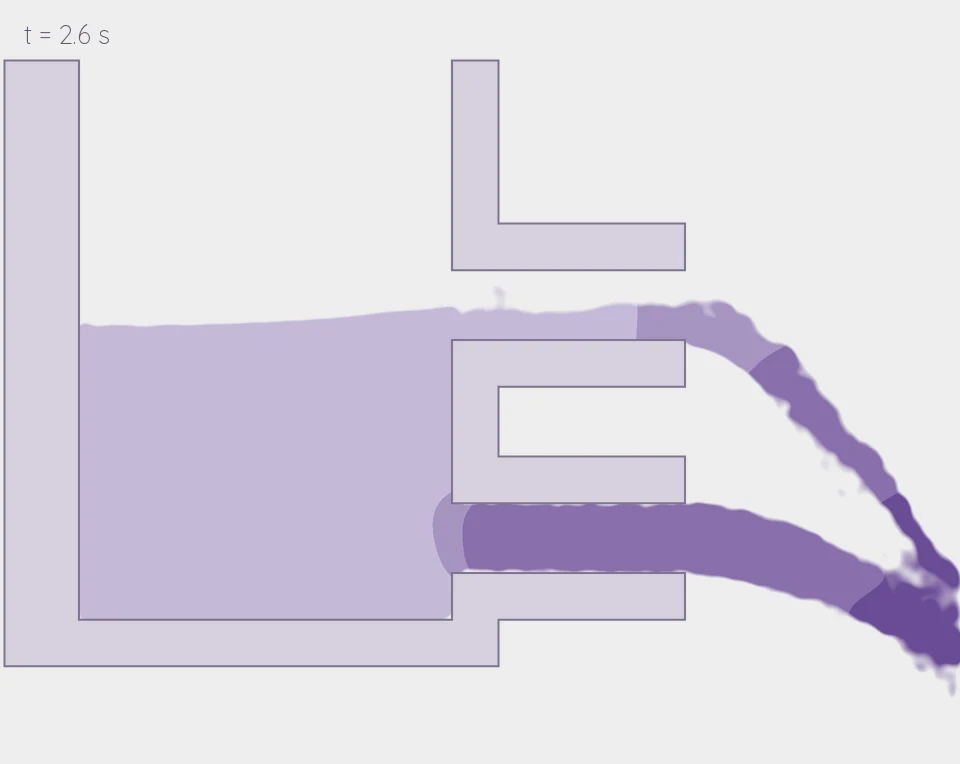
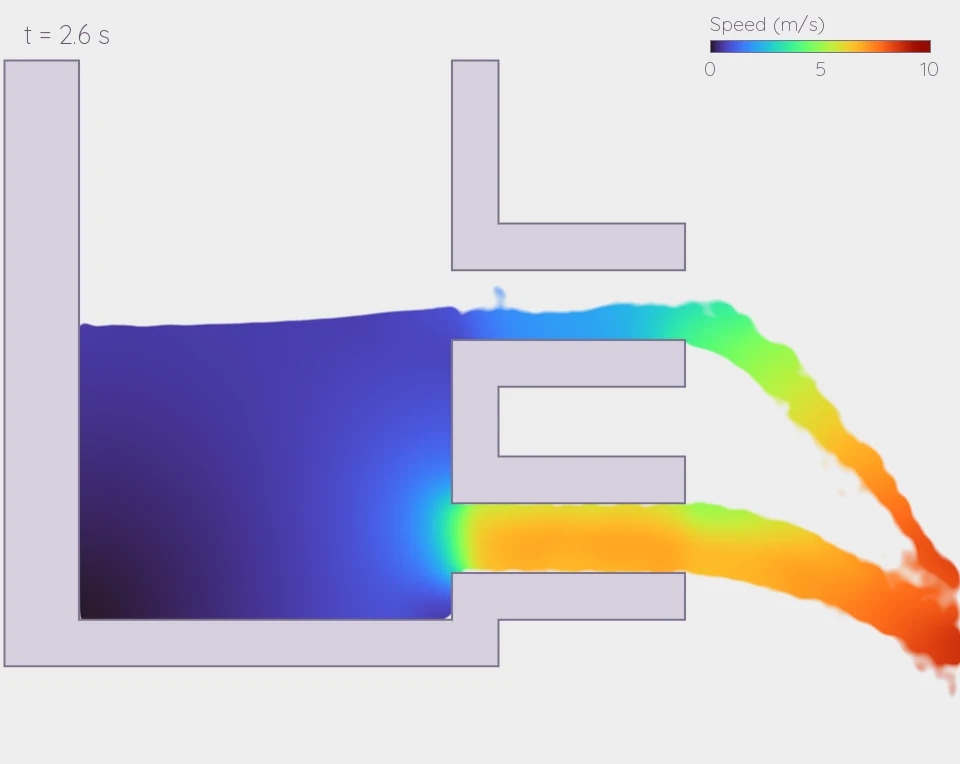
Applications: Turbo colour map with a speed legend (Josip's remark)
The roll tank, draining tank and reduced-gravity clips were flat purple
bands; they now use the app's Turbo map, continuous, with a labelled speed
bar in each clip (0-1.6, 0-10 and 0-0.8 m/s). The hero panel keeps the
site palette.

Changed region(s): [[0.0625, 0.3613, 1.0, 0.9031], [0.7188, 0.0301, 0.9688, 0.0903]]

diff --git a/src/content/content.ts b/src/content/content.ts
@@ -249,7 +249,7 @@ export const showcases: readonly Application[] = [
       src: '/assets/showcases/reduced-gravity.webp',
       alt: 'Two identical tanks shaken side to side. At 1 g a single wave travels the tank; at 0.01 g the liquid is thrown up the walls in thin sheets that arc slowly back down.',
       caption:
-        'Prelimina FLIP runs of the same 0.6 m tank and motion at 1 g (top) and 0.01 g (bottom); surface tension off. Side view coloured by speed (0–1 m/s). Development build 482769ac.',
+        'Prelimina FLIP runs of the same 0.6 m tank and motion at 1 g (top) and 0.01 g (bottom); surface tension off. Side view coloured by speed (0–0.8 m/s). Development build 482769ac.',
       aspectRatio: '960 / 1160',
       fit: 'contain',
     },
